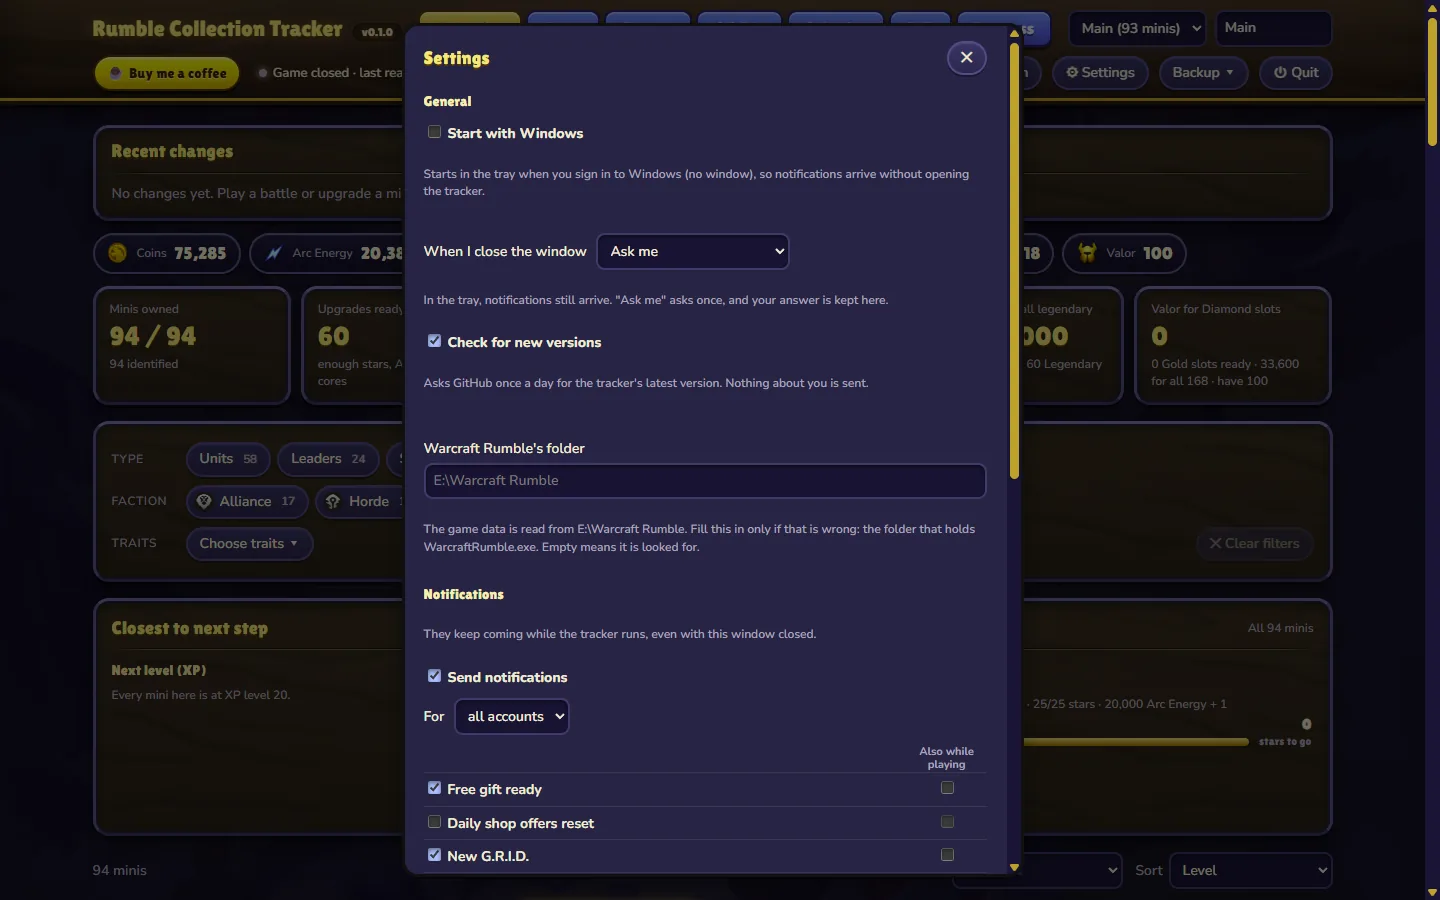
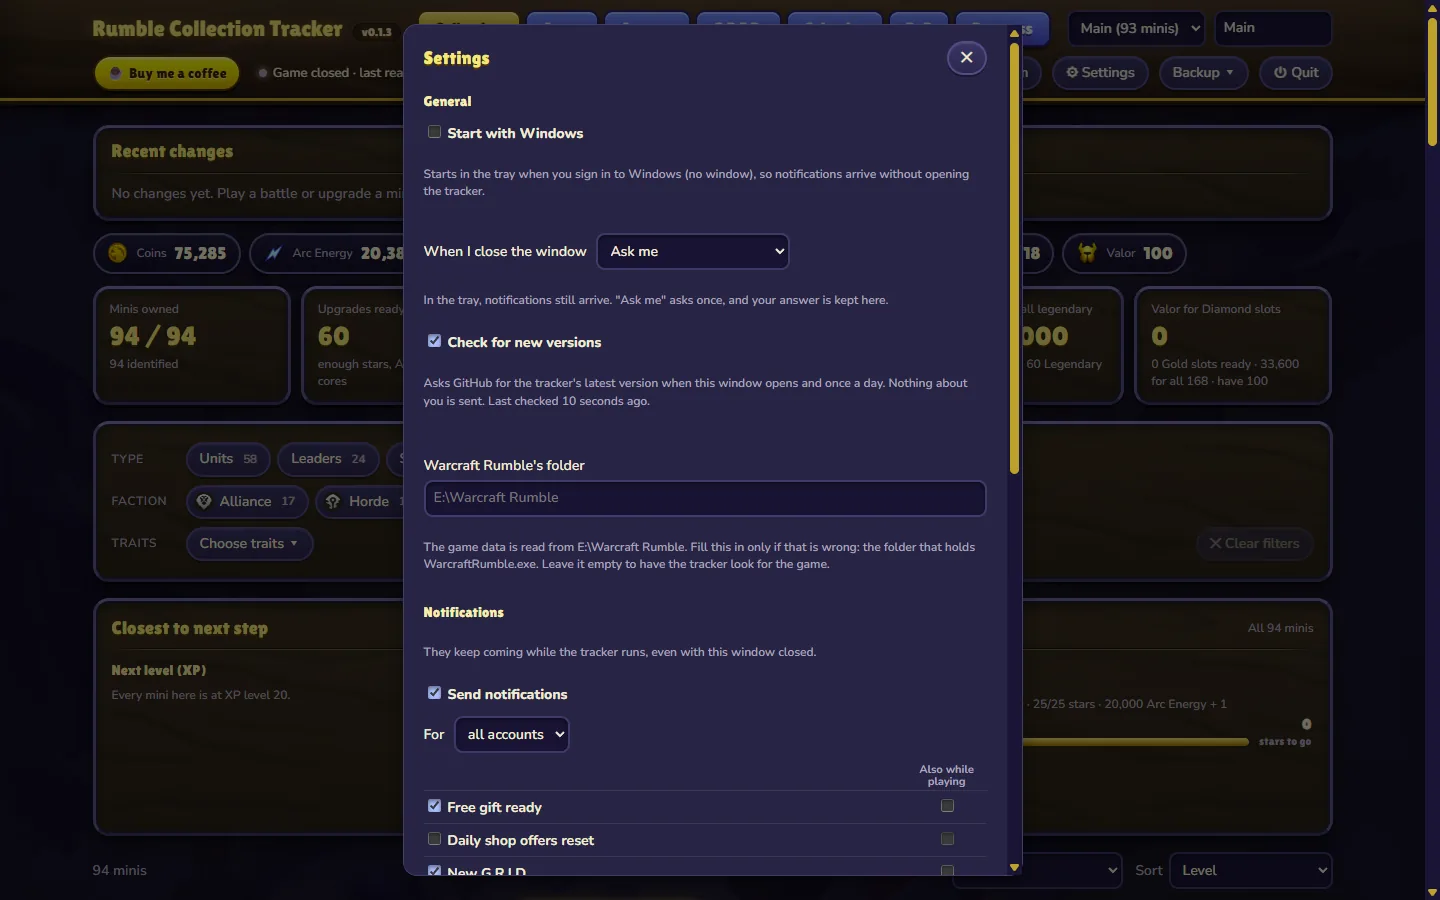
Version check when the window opens, last check in Settings, keyboard fixes; version 0.1.3

diff --git a/web/scripts/settings.js b/web/scripts/settings.js
@@ -4,10 +4,12 @@
 import { $, getJson, post, showMessage, state } from './core.js';
 import { showDialog, confirmDialog, alertDialog } from './dialogs.js';
 import { CLOSE_CHOICES } from './lib/constants.js';
-import { esc, dateTime } from './lib/format.js';
+import { esc, dateTime, ago } from './lib/format.js';
 
 let notify = null; // { settings, types, log, pending, playing }
-let general = null; // { startWithWindows, closeWindow (both null from source), checkUpdates, gameFolder, gameFolderUsed }
+// { startWithWindows, closeWindow (both null from source), checkUpdates, lastUpdateCheck, updateCheckError, gameFolder,
+// gameFolderUsed }
+let general = null;
 let extra = null; // the additional data: { available, state, done, total, label, error } (server/rdmodule.mjs)
 let extraTimer = null;
 
@@ -32,6 +34,12 @@ function gameFolderSection() {
       WarcraftRumble.exe. Leave it empty to have the tracker look for the game.</p>`;
 }
 
+/** When a newer version was last looked for, or why that did not work. */
+function lastCheck() {
+  if (general.updateCheckError) return ` The last check did not work (${esc(general.updateCheckError)}).`;
+  return general.lastUpdateCheck ? ` Last checked ${esc(ago(general.lastUpdateCheck))}.` : '';
+}
+
 /** Start with Windows and what closing the window does, which only the exe has, and the check for new versions. */
 function generalSection() {
   const autostart = general?.startWithWindows == null
@@ -46,7 +54,8 @@ function generalSection() {
       <p class="muted small">In the tray, notifications still arrive. "Ask me" asks once, and your answer is kept here.</p>`;
   const updates = general?.checkUpdates == null ? '' : `<label class="dialog-toggle"><input type="checkbox"
       data-setting="checkUpdates" ${general.checkUpdates ? 'checked' : ''}> Check for new versions</label>
-      <p class="muted small">Asks GitHub once a day for the tracker's latest version. Nothing about you is sent.</p>`;
+      <p class="muted small">Asks GitHub for the tracker's latest version when this window opens and once a day. Nothing
+        about you is sent.${general.checkUpdates ? lastCheck() : ''}</p>`;
   return `<h3>General</h3>${autostart}${close}${updates}<span class="dialog-message small" data-setting-message></span>`;
 }
 

diff --git a/web/scripts/app.js b/web/scripts/app.js
@@ -71,14 +71,28 @@ async function boot() {
   bindSettings();
   bindReport();
   for (const b of document.querySelectorAll('[data-tab]')) b.addEventListener('click', () => setTab(b.dataset.tab));
+  // Left and Right move between the tabs, Home and End go to the first and the last, as a tab list is expected to
+  document.querySelector('[role="tablist"]').addEventListener('keydown', (e) => {
+    const all = [...e.currentTarget.querySelectorAll('[data-tab]')], at = all.indexOf(document.activeElement);
+    const to = { ArrowRight: at + 1, ArrowLeft: at - 1, Home: 0, End: all.length - 1 }[e.key];
+    if (at < 0 || to === undefined) return;
+    e.preventDefault();
+    const next = all[(to + all.length) % all.length];
+    setTab(next.dataset.tab);
+    next.focus();
+  });
   setTab(ui.tab);
   await poll();
   schedulePoll();
+  // In view: the tracker looks for a newer version now (it may have sat in the tray since its last daily look).
+  const lookForUpdate = () => post('/api/update/check', {}).then(poll, () => {});
+  lookForUpdate();
   // Back in view, so refresh at once instead of waiting for the slow poll.
   document.addEventListener('visibilitychange', () => {
     if (document.hidden) return;
     poll();
     schedulePoll();
+    lookForUpdate();
   });
   setInterval(renderStatus, SECOND);
 }
@@ -177,7 +191,10 @@ export function setTab(tab) {
   ui.tab = tab;
   store.set('tab', tab);
   if (location.hash.slice(1) !== tab) history.replaceState(null, '', `#${tab}`);
-  for (const b of document.querySelectorAll('[data-tab]')) b.setAttribute('aria-selected', String(b.dataset.tab === tab));
+  for (const b of document.querySelectorAll('[data-tab]')) {
+    b.setAttribute('aria-selected', String(b.dataset.tab === tab));
+    b.tabIndex = b.dataset.tab === tab ? 0 : -1; // (Tab reaches the open one; the arrows reach the others)
+  }
   for (const page of document.querySelectorAll('main[id^="tab-"]')) page.hidden = page.id !== `tab-${tab}`;
   TAB_PAGES[tab]?.();
 }

diff --git a/web/index.html b/web/index.html
@@ -12,15 +12,15 @@
 <body>
   <header class="topbar">
     <div class="topbar-row topbar-main">
-      <div class="brand">Rumble Collection Tracker <span class="tag" id="appVersion" hidden></span></div>
+      <h1 class="brand">Rumble Collection Tracker <span class="tag" id="appVersion" hidden></span></h1>
       <nav class="tabs" role="tablist" aria-label="Sections">
-        <button class="tab" role="tab" data-tab="collection">Collection</button>
-        <button class="tab" role="tab" data-tab="army">Army</button>
-        <button class="tab" role="tab" data-tab="armory">Armory</button>
-        <button class="tab" role="tab" data-tab="grid">G.R.I.D.</button>
-        <button class="tab" role="tab" data-tab="calendar">Calendar</button>
-        <button class="tab" role="tab" data-tab="pvp">PvP</button>
-        <button class="tab" role="tab" data-tab="progress">Progress</button>
+        <button class="tab" role="tab" data-tab="collection" aria-controls="tab-collection">Collection</button>
+        <button class="tab" role="tab" data-tab="army" aria-controls="tab-army">Army</button>
+        <button class="tab" role="tab" data-tab="armory" aria-controls="tab-armory">Armory</button>
+        <button class="tab" role="tab" data-tab="grid" aria-controls="tab-grid">G.R.I.D.</button>
+        <button class="tab" role="tab" data-tab="calendar" aria-controls="tab-calendar">Calendar</button>
+        <button class="tab" role="tab" data-tab="pvp" aria-controls="tab-pvp">PvP</button>
+        <button class="tab" role="tab" data-tab="progress" aria-controls="tab-progress">Progress</button>
       </nav>
       <div class="account">
         <label for="account">Account</label>

diff --git a/web/styles/style.css b/web/styles/style.css
@@ -98,6 +98,7 @@ button { cursor: pointer; }
 .status-text { min-width: 0; overflow: hidden; text-overflow: ellipsis; white-space: nowrap; }
 .topbar-spacer { flex: 1; }
 .brand {
+  margin: 0;
   font-family: var(--display);
   font-weight: 400;
   font-size: 22px;
@@ -254,7 +255,9 @@ button { cursor: pointer; }
   min-height: 38px;
 }
 .tag-editor input { flex: 1; min-width: 140px; padding: 3px; box-shadow: none; border: 0; background: transparent; }
+/* the box shows the focus of the field inside it */
 .tag-editor input:focus { outline: none; }
+.tag-editor:focus-within { outline: 2px solid var(--gold-2); outline-offset: 1px; }
 .tag-chip {
   display: inline-flex;
   align-items: center;

diff --git a/README.md b/README.md
@@ -66,7 +66,8 @@ to one JSON file, which *Import backup…* restores, also on another PC.
 
 ### Updating
 
-Once a day the tracker asks GitHub whether a newer version is out, and offers it in a pop-up. *Download now* fetches
+When its window opens, and once a day, the tracker asks GitHub whether a newer version is out, and offers it in a
+pop-up. *Download now* fetches
 the release, checks it against the checksums published with it, replaces `RumbleTracker.exe` and restarts; if the new
 version fails to start, the previous one is put back. An exe you built yourself is only told about the new version,
 and is left as it is. You can also download the release and replace the exe by hand. Either way your data stays where
@@ -93,7 +94,7 @@ A mini that a patch adds shows as *Needs your input* until a newer version of th
 - The tracker only **reads** the game's saved data (from the Windows registry). It never changes it, and it ignores
   the login tokens stored next to it.
 - It sends nothing about you anywhere. Its only request to the internet asks GitHub for the tracker's latest version,
-  once a day, and can be turned off in **⚙ Settings**; a new version is downloaded only when you click *Download now*.
+  when its window opens and once a day, and can be turned off in **⚙ Settings**; a new version is downloaded only when you click *Download now*.
   *Report a problem* and the other links open in your own browser.
 - The local page is only reachable from this PC, and only by the tracker's own page.
 

diff --git a/docs/INSTRUCTIONS.md b/docs/INSTRUCTIONS.md
@@ -178,7 +178,8 @@ notifications arrive without starting it yourself.
 tracker*, or *Ask me*. With *Ask me*, the first close asks (*Cancel* keeps the window open), and your answer becomes
 the setting. Both settings are only in `RumbleTracker.exe`.
 
-**Check for new versions** has the tracker ask GitHub once a day whether a newer version is out.
+**Check for new versions** has the tracker ask GitHub whether a newer version is out, when its window opens and once
+a day. The line under it says when it last looked.
 
 **Warcraft Rumble's folder** shows where the tracker reads its game data from. Leave it empty unless that is wrong,
 for example after moving the game by hand: then give the folder that holds `WarcraftRumble.exe`. The tracker uses

diff --git a/CHANGELOG.md b/CHANGELOG.md
@@ -3,6 +3,14 @@
 What changed in each release of Rumble Collection Tracker. The release workflow copies a version's section into its
 GitHub release notes.
 
+## 0.1.3
+
+- The tracker now looks for a new version whenever its window opens, not only once a day, so the update pop-up shows
+  up sooner.
+- Settings says when the tracker last looked for a new version, or why that did not work.
+- Keyboard: the Left and Right arrow keys move between the tabs, and the tag box shows when it has the focus.
+- The problem report no longer replaces ordinary words that happen to match your Windows user name.
+
 ## 0.1.2
 
 - Fixed: when reading the game data failed, the banner repeated itself. It now gives the reason once.

diff --git a/docs/HOW-IT-WORKS.md b/docs/HOW-IT-WORKS.md
@@ -72,7 +72,8 @@ nothing is downloaded.
 
 ## App updates
 
-At start and once a day the tracker asks GitHub for the latest release of its repository. The request carries nothing
+At start, when its window comes into view and once a day the tracker asks GitHub for the latest release of its
+repository. The request carries nothing
 about you, and the check can be turned off in **⚙ Settings**. When there's a newer version, a pop-up offers:
 
 - **Download now**: the tracker downloads the release from GitHub, checks the zip and the exe against the checksums
